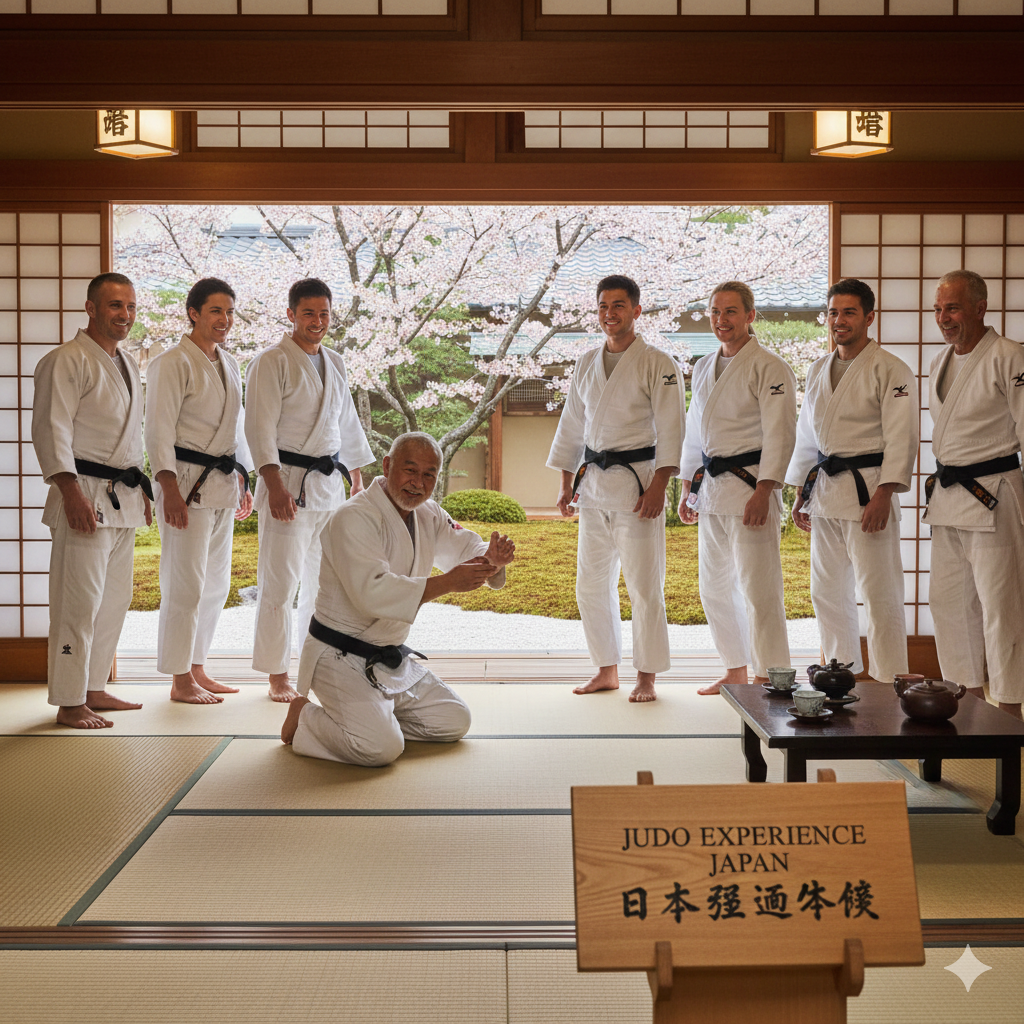
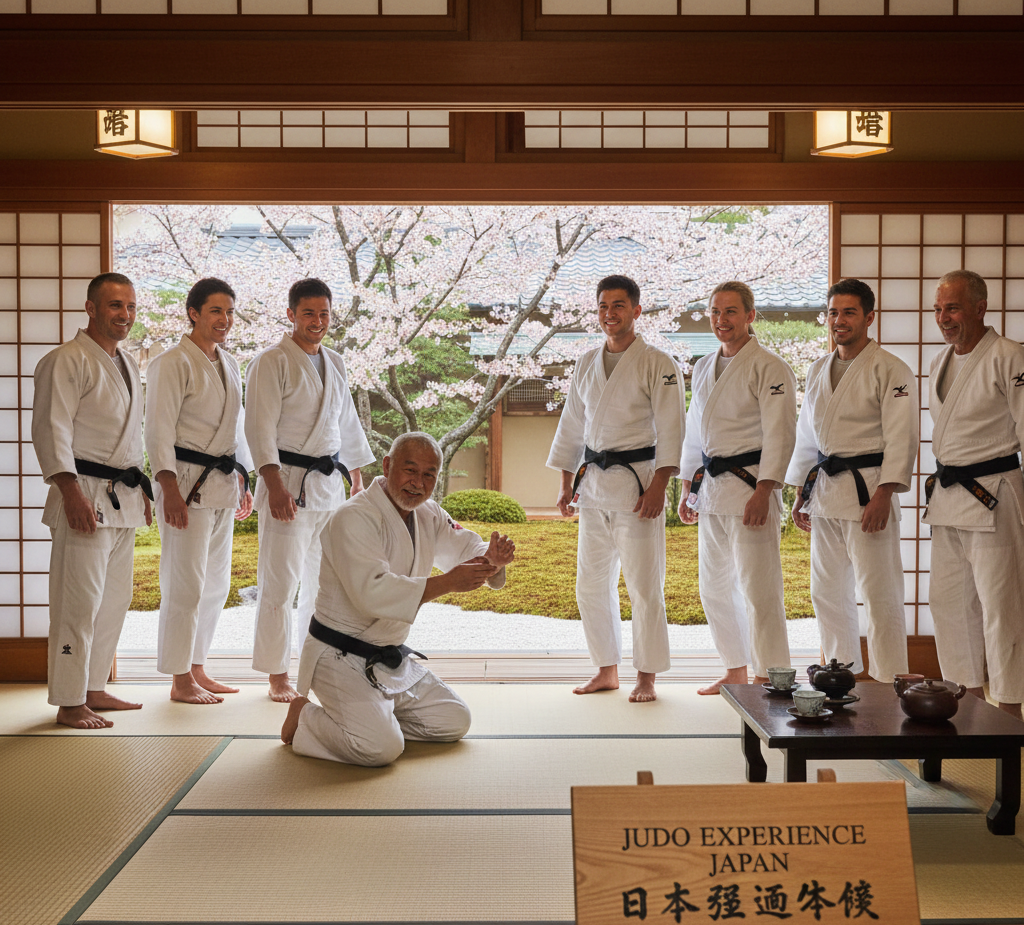
page change judo exp

diff --git a/src/app/services/judo-experience/page.tsx b/src/app/services/judo-experience/page.tsx
@@ -85,7 +85,7 @@ export default function JudoExperiencePage() {
           <div className="order-first lg:order-last">
             <div className="overflow-hidden rounded-2xl bg-bgLight shadow-md">
               <img
-                src="https://images.unsplash.com/photo-1542818454-dc05decf9db3?auto=format&fit=crop&w=1200&q=80"
+                src="/judo_exp.png"
                 alt="柔道体験"
                 className="h-auto w-full object-cover"
               />
